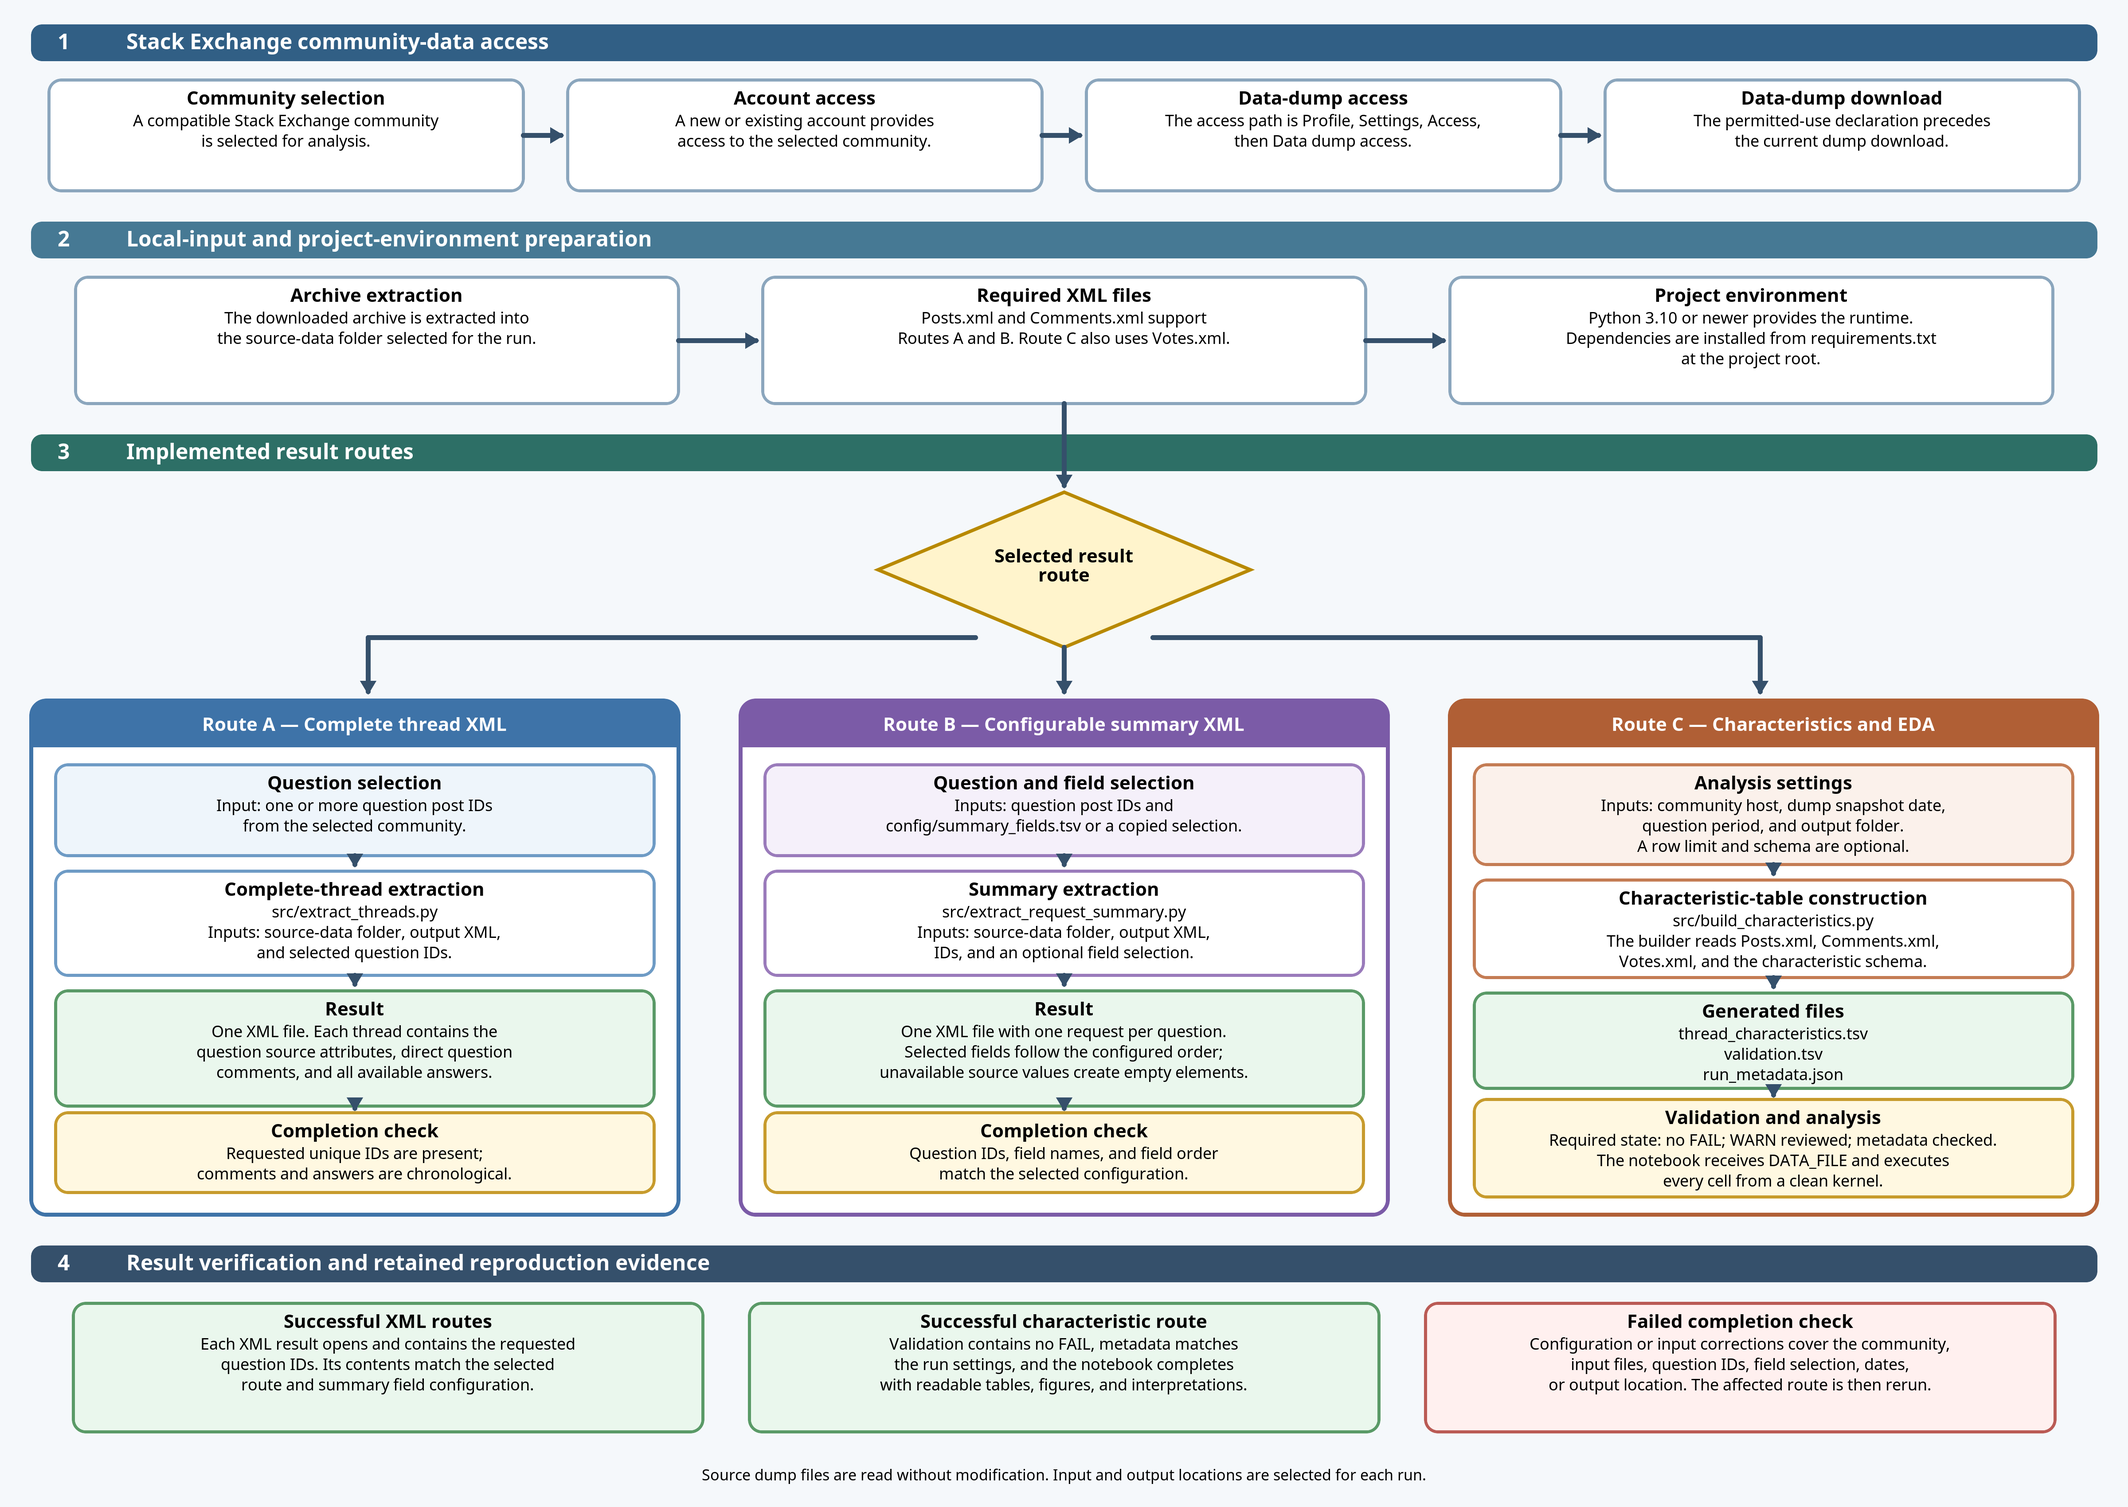
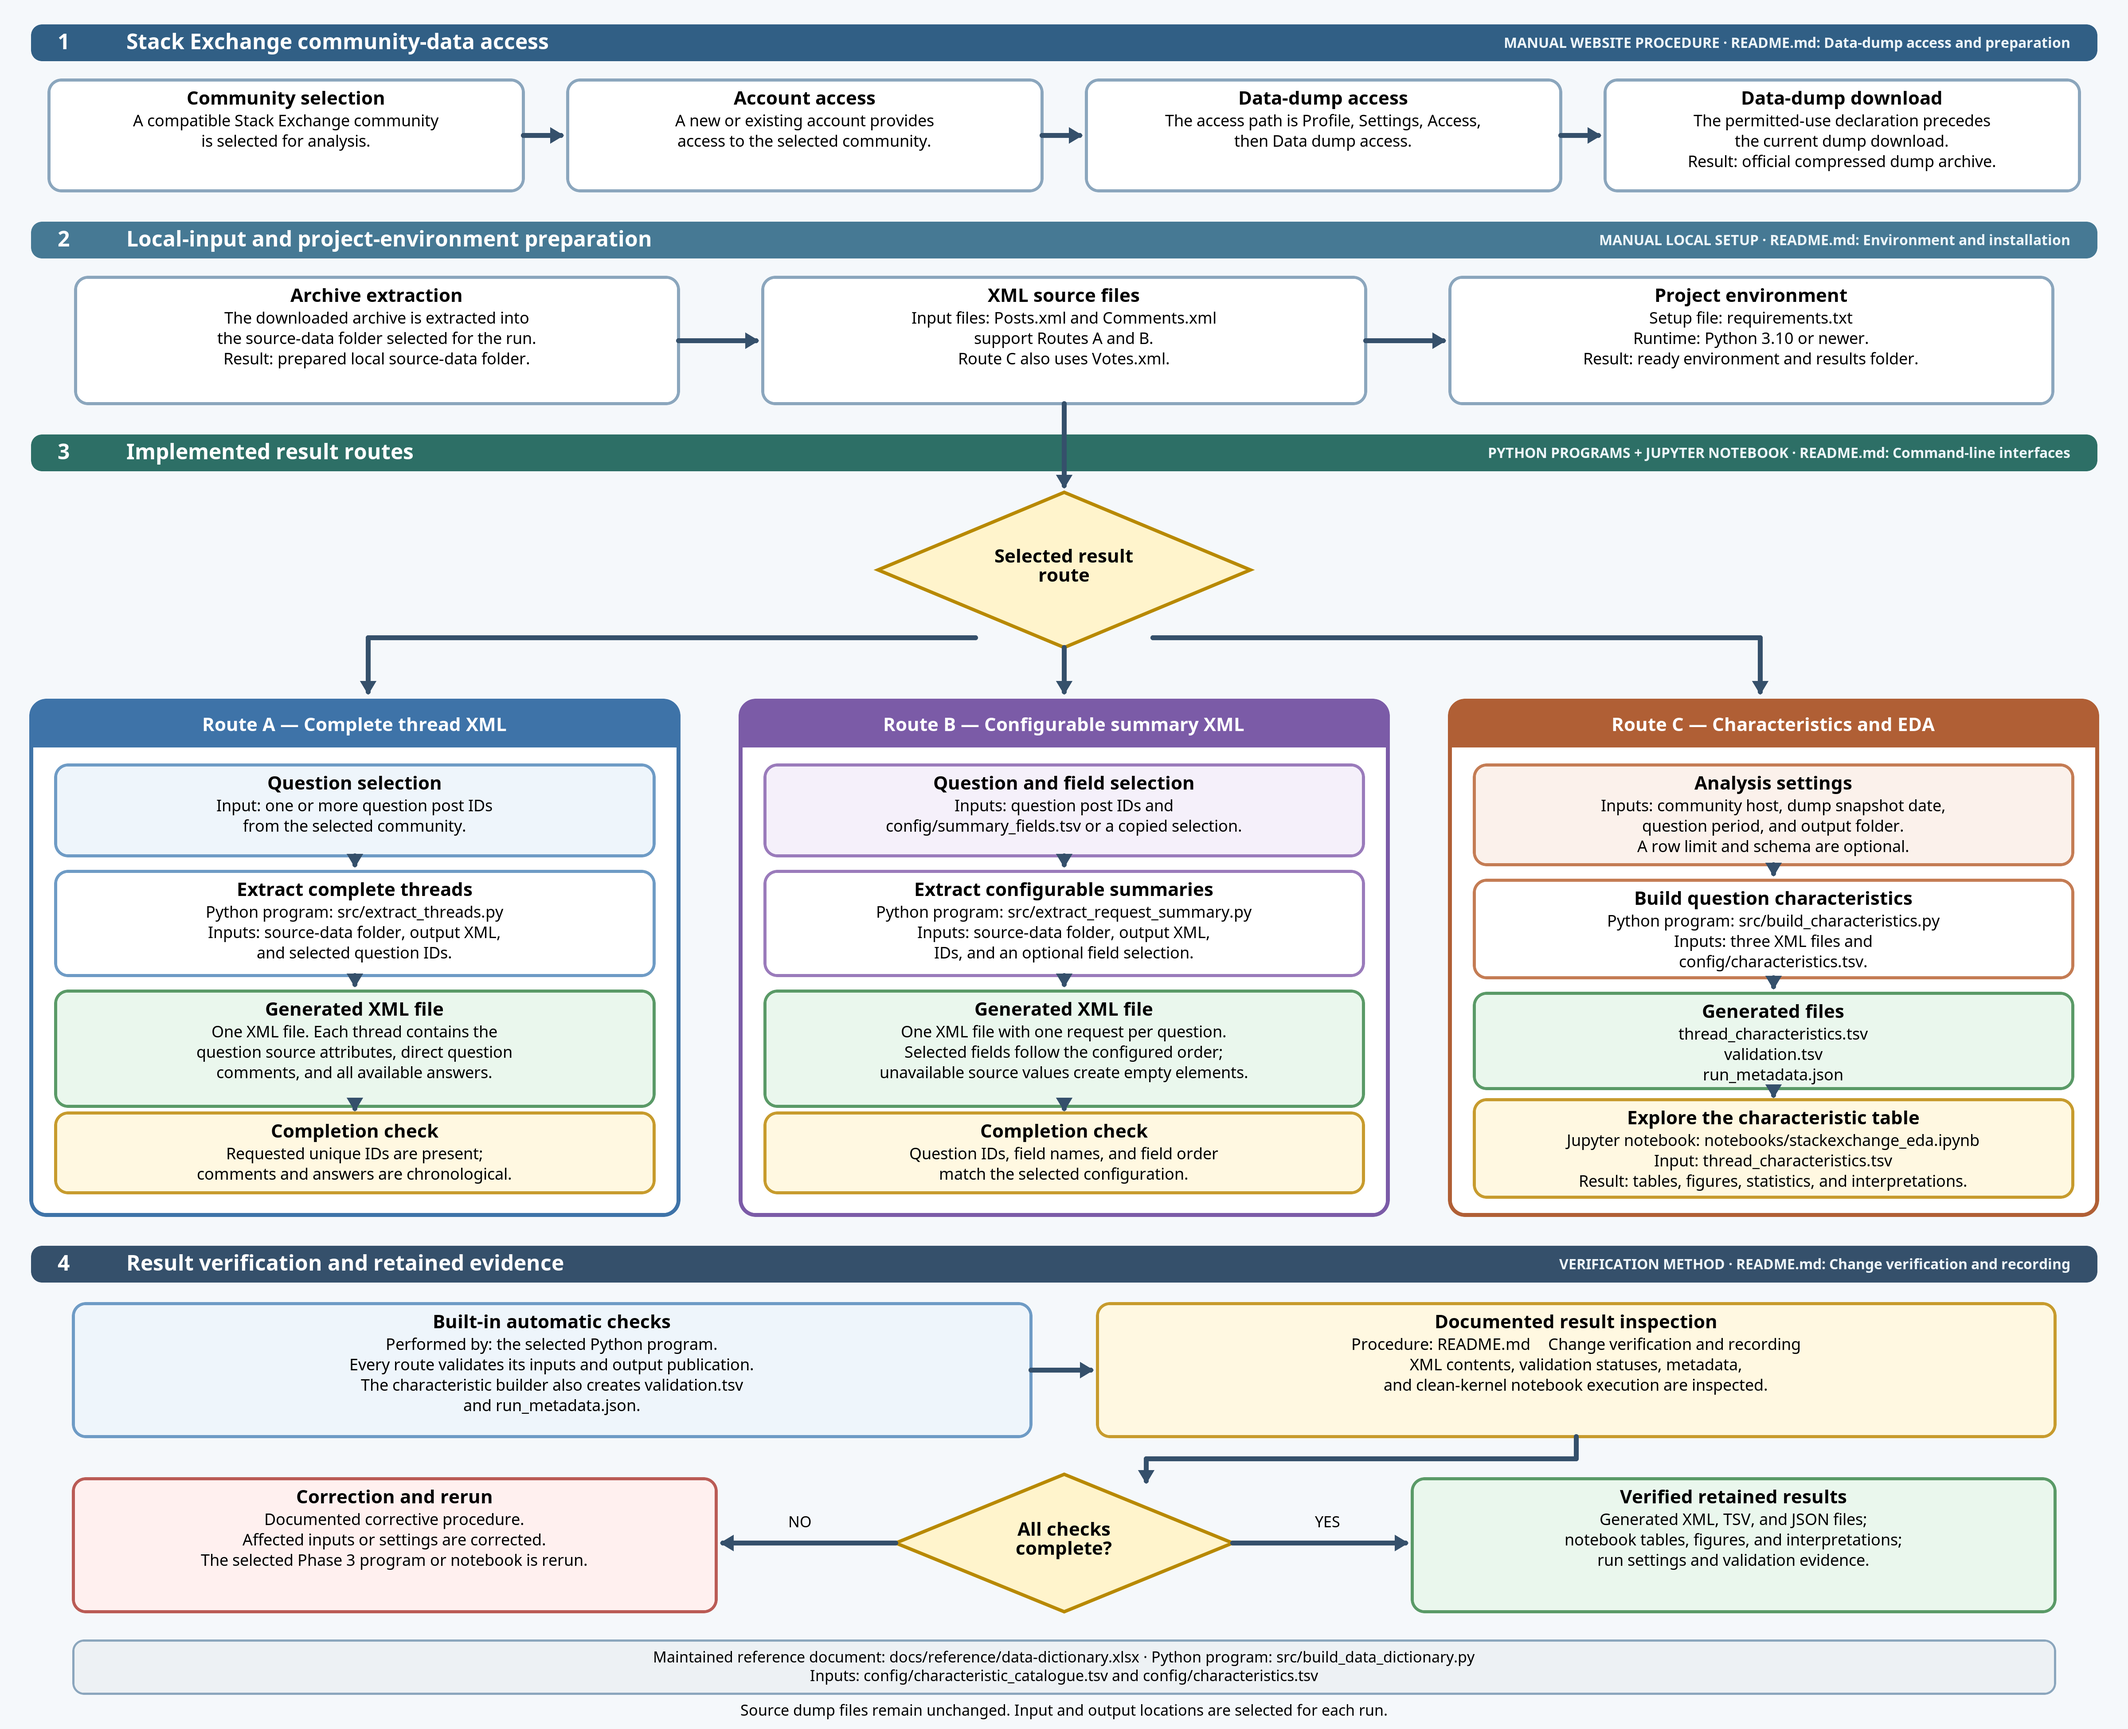
Clarify workflow artifact types (#14)
## Summary

- identifies Phases 1 and 2 as documented manual procedures and names
their exact README sections
- aligns every Phase 3 action with its Python program or Jupyter
notebook filename
- identifies configuration files, source files, generated files, and the
maintained data-dictionary reference
- replaces the ambiguous Phase 4 presentation with built-in program
checks, documented result inspection, a pass/fail decision, retained
evidence, and the corrective rerun path
- synchronizes the README, project checklist, and release-verification
evidence

## Reason

The previous workflow showed the sequence but did not consistently state
whether a phase represented a document, program, notebook, configuration
file, generated artifact, or manual procedure. Phase 4 could therefore
be interpreted as an unspecified standalone program.

## Impact

The revised 4800×3900 workflow preserves the three generic result routes
and exposes the real project interfaces without personal paths, fixed
communities, fixed dates, fixed periods, fixed question IDs, or terminal
commands.

## Validation

- SVG parsing and required-interface label audit: PASS
- PNG dimensions and opaque export: PASS (4800×3900)
- full-size inspection of Phases 1–2, Phase 3, and Phase 4: PASS
- Markdownlint: 0 errors across 7 files
- local Markdown paths and anchors: 196 resolved
- neutral-tone audit for changed authored surfaces: PASS
- `git diff --check`: PASS

diff --git a/PROJECT_CHECKLIST.md b/PROJECT_CHECKLIST.md
@@ -1,6 +1,6 @@
 # Stack Exchange Difficulty Project Checklist
 
-Last reviewed: **2026-07-12**
+Last reviewed: **2026-07-13**
 
 This is the canonical project roadmap and completion record. A checked item has
 an evidence path, validation command, or recorded result. Authored project
@@ -16,7 +16,7 @@ material retain their original form.
 - Post-merge GitHub Actions run: `29164761612` (**2 jobs passed**).
 - Dictionary v5 synthesis: draft pull request `#13`, implementation commit
   `3f754ece4e49efbb48c8605587abd02bc13446d8`, and GitHub Actions run
-  `29204483469` (**2 jobs passed**).
+  `29204567935` (**2 jobs passed**).
 - Verified release tag: `verified-release-2026-07-11`.
 - Diátaxis guide revision tag: `diataxis-guide-2026-07-11`.
 - Detailed evidence: `docs/reference/release-verification.tsv`.
@@ -59,11 +59,15 @@ Status: **Complete**
   notebook, documentation, dependency, contribution, and security location.
 - [x] The architecture and component tables explain all six Python modules and
   the generic notebook, including their relationships.
-- [x] One editable SVG and one 4800×3400 PNG show the sequence from Stack
+- [x] One editable SVG and one 4800×3900 PNG show the sequence from Stack
   Exchange access through environment preparation, the three implemented
   routes, validation, EDA, and final results.
 - [x] The diagram contains route decisions, data-flow arrows, execution order,
   completion checks, and the corrective path after a failed check.
+- [x] The diagram identifies the manual website and local-setup procedures,
+  their exact README sections, every route's Python program or Jupyter
+  notebook, configuration and generated files, and Phase 4's combination of
+  built-in checks with documented result inspection.
 - [x] Diagram labels use configurable concepts and contain no personal path,
   fixed production community, fixed period, or fixed question ID.
 
@@ -157,6 +161,9 @@ Status: **Complete**
   EDA, outputs, and error recovery.
 - [x] Inputs, processing stages, decisions, outputs, completion conditions, and
   principal failure corrections are visible in one non-repetitive diagram.
+- [x] Procedure, program, notebook, configuration, result, and verification
+  roles are explicitly named, including the maintained data-dictionary builder
+  and workbook.
 - [x] The editable SVG and publication PNG contain matching labels and have been
   inspected at full size and in the README.
 

diff --git a/README.md b/README.md
@@ -52,6 +52,11 @@
 The diagram presents the complete implemented sequence from Stack
 Exchange access to inspected and retained results.
 
+Its phase headers identify manual procedures, executable software, and the
+verification method. Phases 1, 2, and 4 name their exact README sections;
+Phase 3 names each Python program, the Jupyter notebook, their configuration
+files, and their generated results.
+
 ![Stack Exchange project workflow](docs/project-workflow-overview.png)
 
 [Full-size PNG](docs/project-workflow-overview.png) ·
@@ -70,10 +75,12 @@ The implemented sequence is:
 6. One or more of the three implemented result routes are selected.
 7. Run-specific paths, identifiers, dates, or field selections enter through the
    documented interfaces.
-8. Generated XML or TSV, validation, and metadata files receive inspection.
-9. The generic notebook provides exploratory results when that route is
+8. Each selected Python program performs its built-in checks.
+9. Generated XML or TSV, validation, metadata, and notebook results receive the
+   documented inspection procedure.
+10. The generic notebook provides exploratory results when that route is
    required.
-10. Source provenance, run settings, validation evidence, and generated results
+11. Source provenance, run settings, validation evidence, and generated results
     remain together.
 
 Each route has a completion check in the [how-to guides](#how-to-guides). Exact
